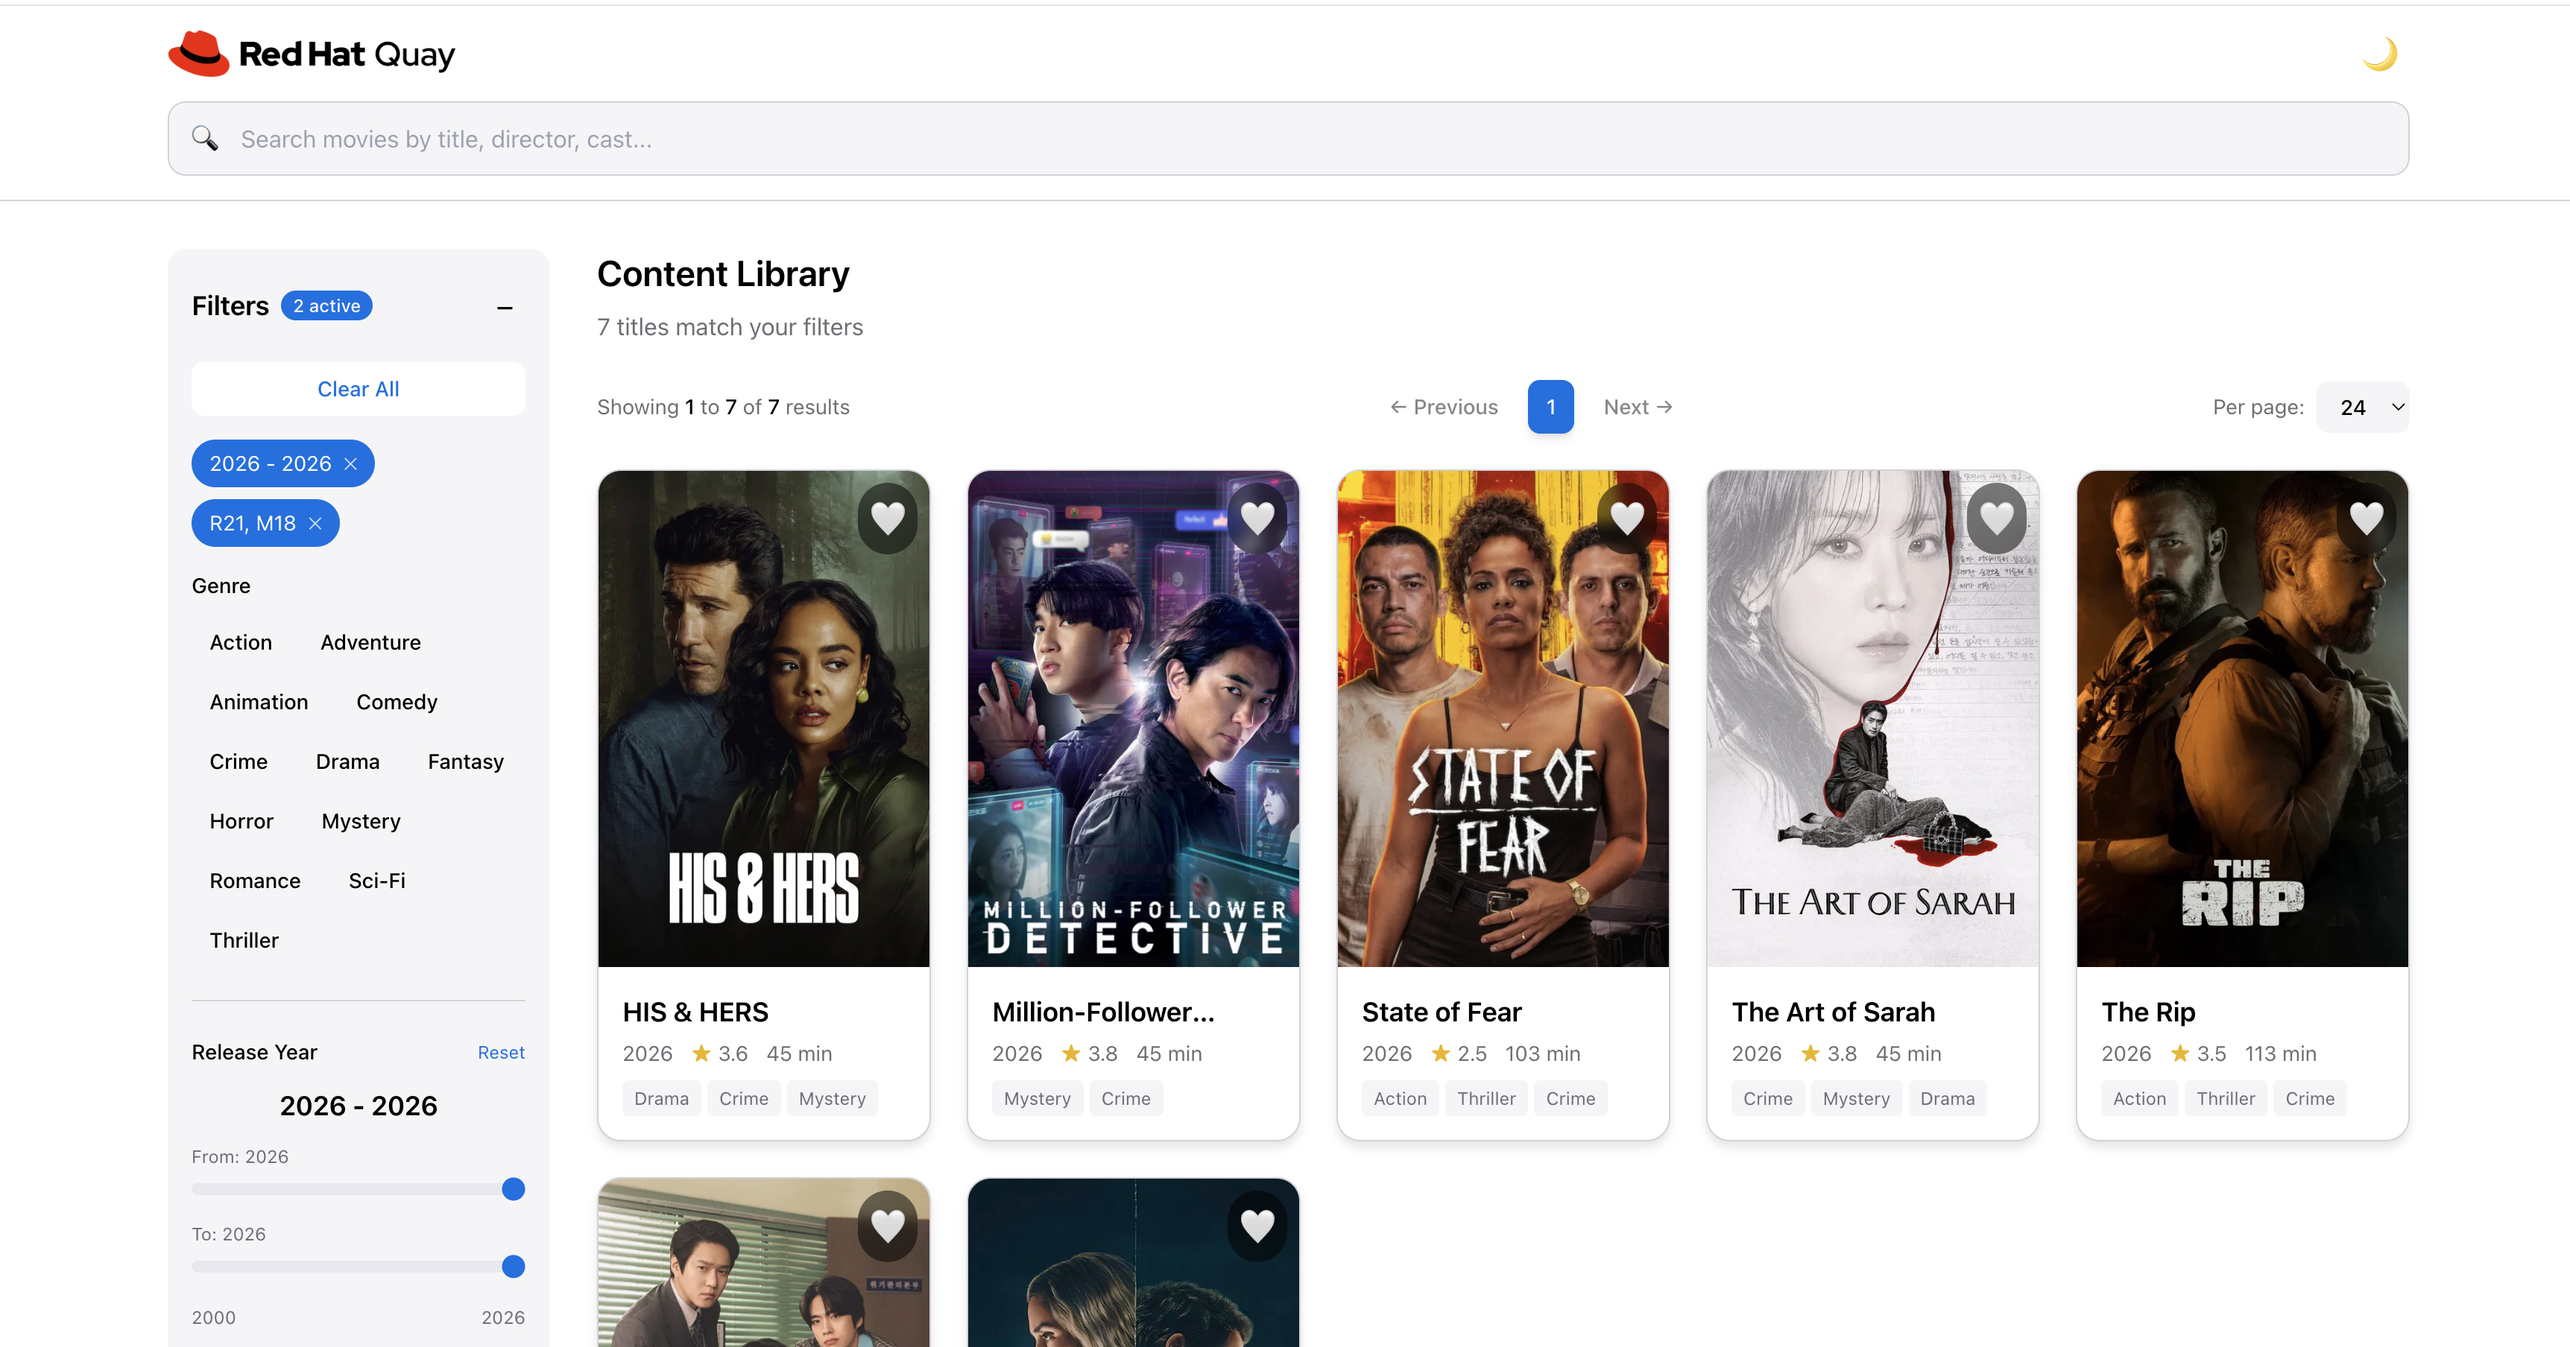
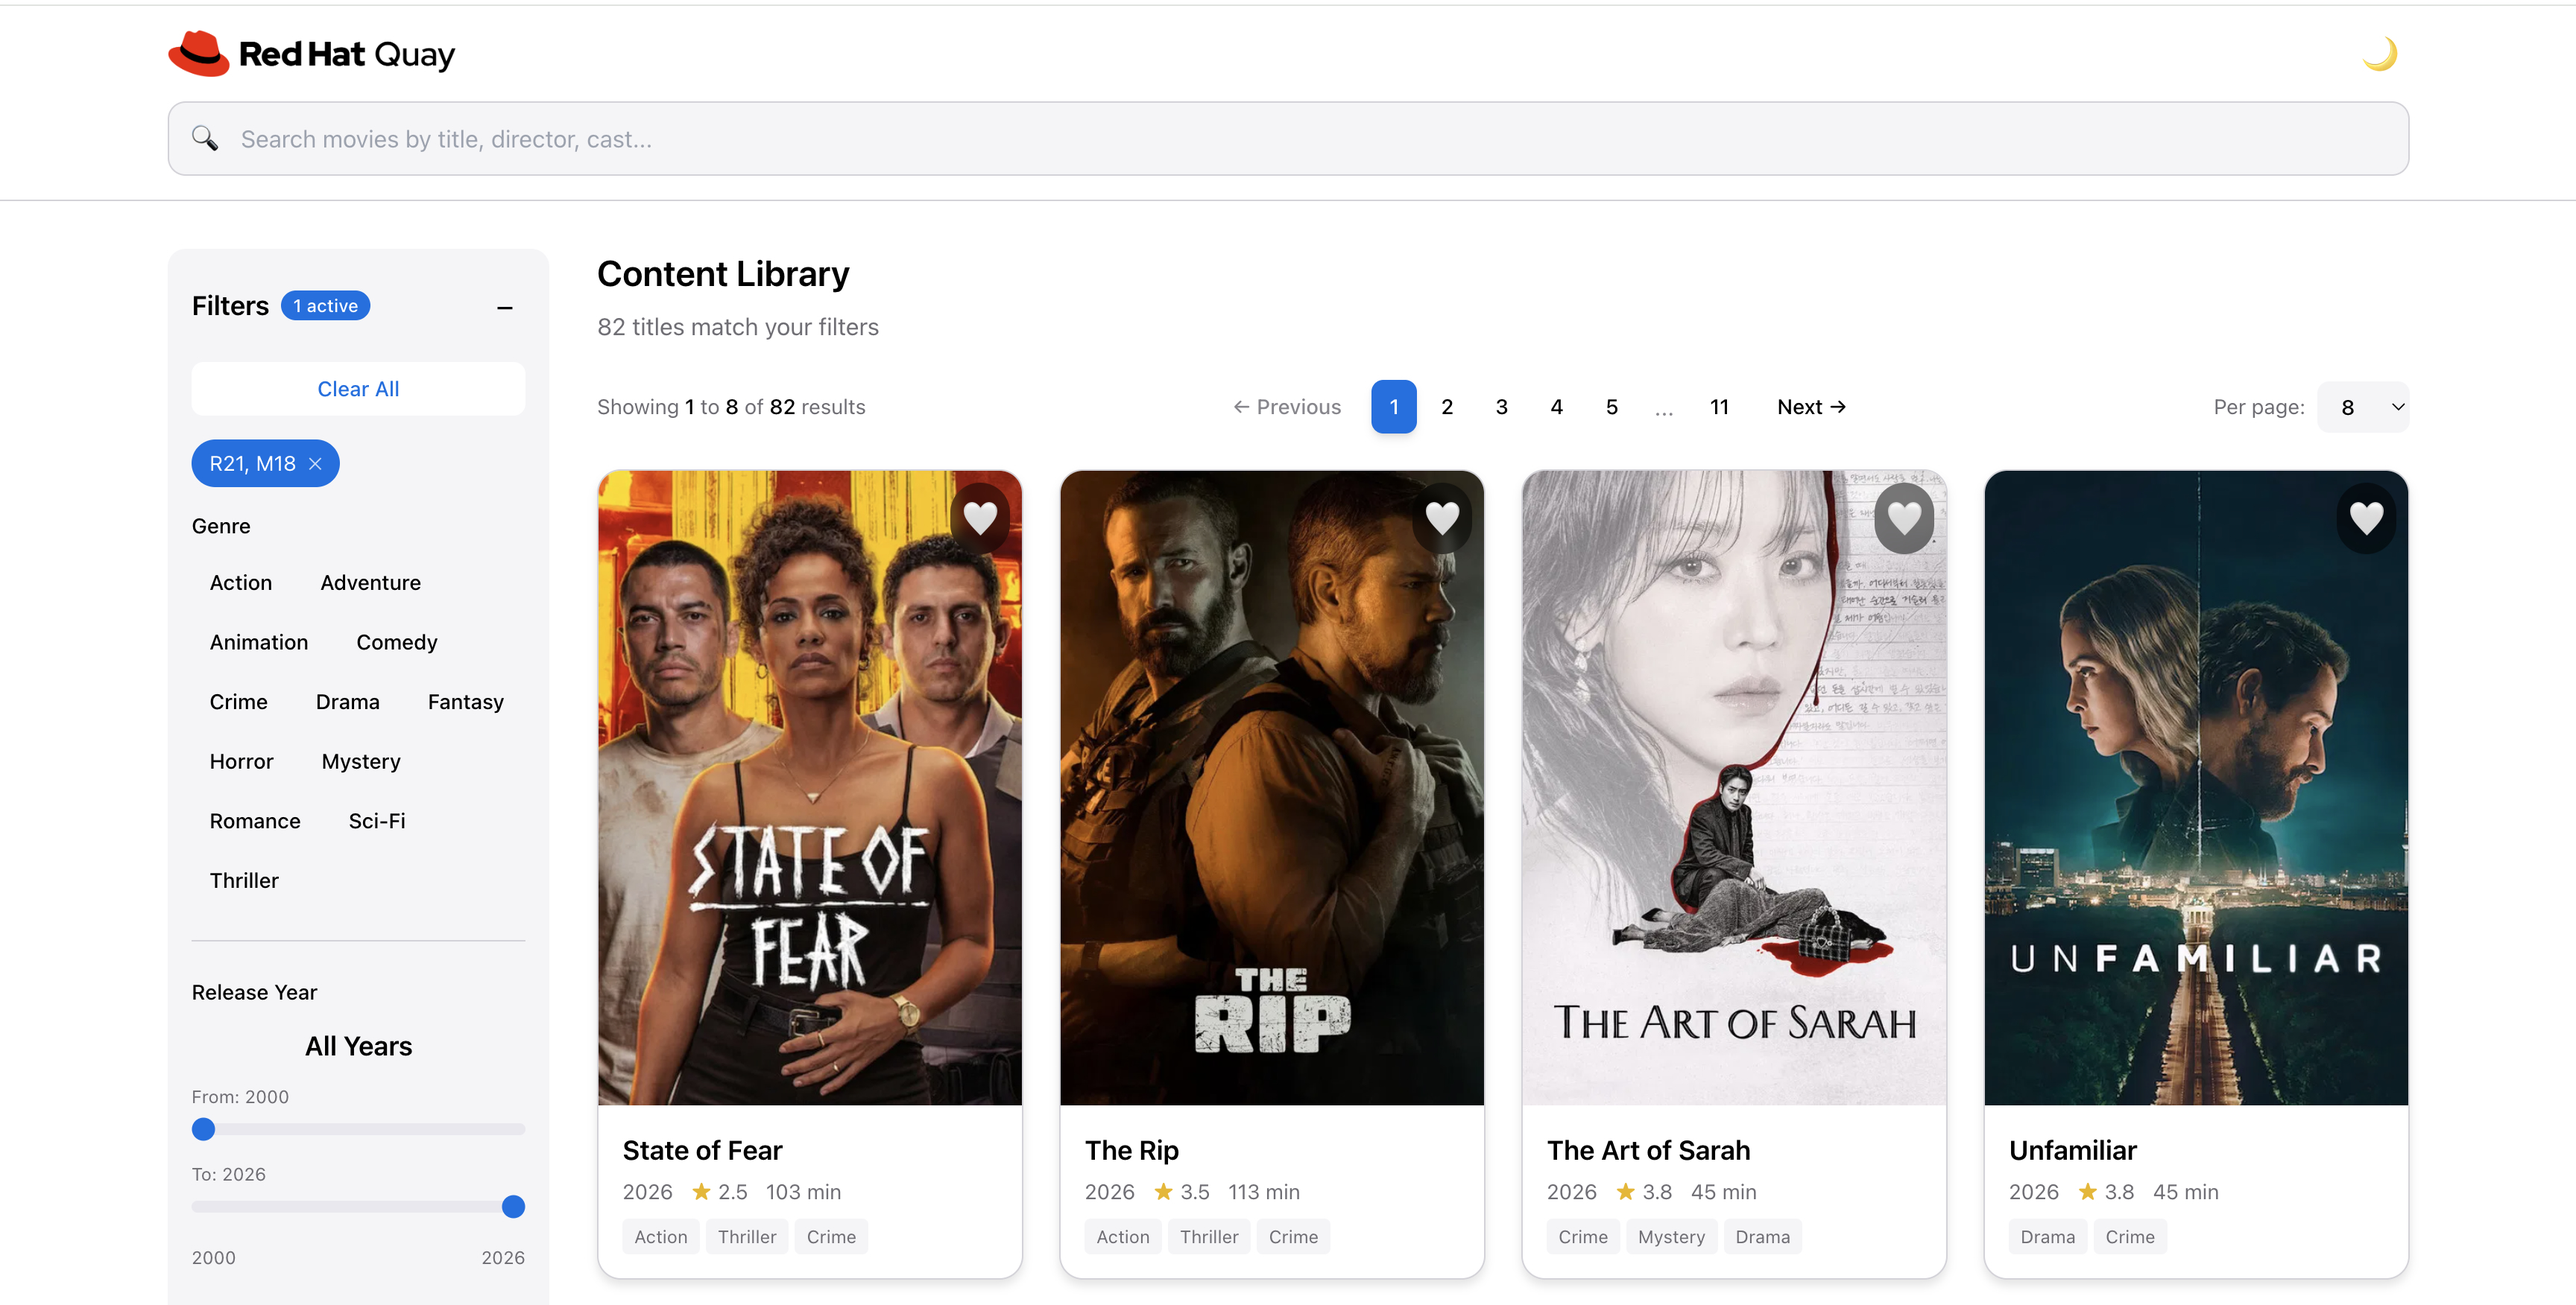
docs: update README screenshot with latest features
Replaced application screenshot to showcase:
- Smart sorting in action (2026 movies displayed first)
- Active content rating filters (R21, M18 selected)
- Advanced filtering sidebar with all filter options
- Search bar and genre filters visible
- Pagination showing page 1 of 11 (82 titles filtered)
- 8 items per page with 4-column grid layout
- Movie cards with ratings, runtime, genre tags, and favorite hearts
- Apple.com-inspired dark design with Red Hat Quay branding

Updated caption to describe the specific features shown in the screenshot.

diff --git a/README.md b/README.md
@@ -8,7 +8,7 @@ A modern, elegant dashboard application for browsing and discovering Netflix Sin
 
 ![Netflix Movie Dashboard](public/assets/screenshot-main.jpg)
 
-*The Netflix Movie Dashboard showcasing the elegant Apple.com-inspired design with Red Hat Quay branding, advanced search and filtering capabilities, and a beautiful grid of Netflix Singapore content.*
+*The Netflix Movie Dashboard in action: Showing the latest 2026 releases with smart sorting (newest first), active content rating filters (R21, M18), advanced filtering sidebar, and elegant Apple.com-inspired dark design with Red Hat Quay branding. Features include search bar, genre filters, year range slider, pagination controls, and movie cards with ratings and favorites.*
 
 ## 🎯 Features
 
